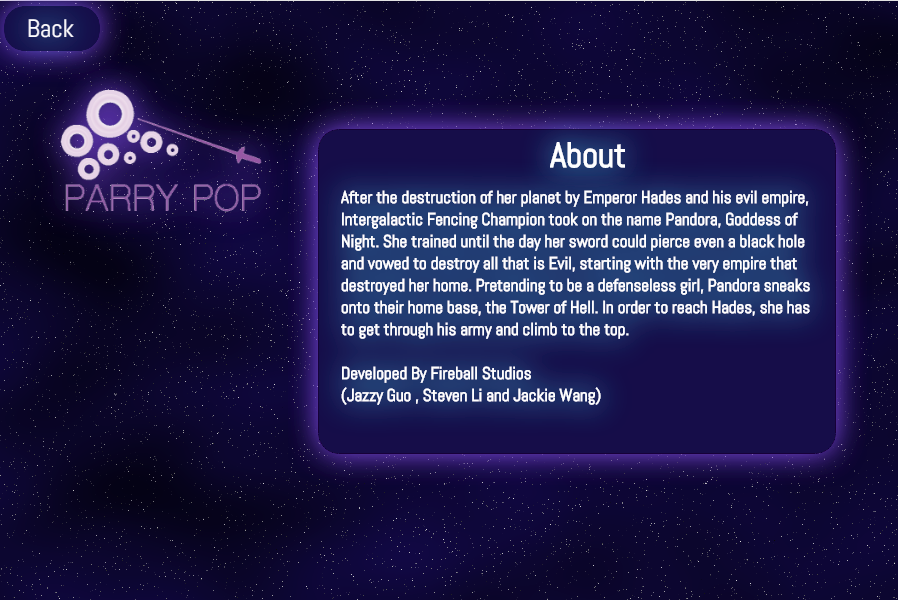
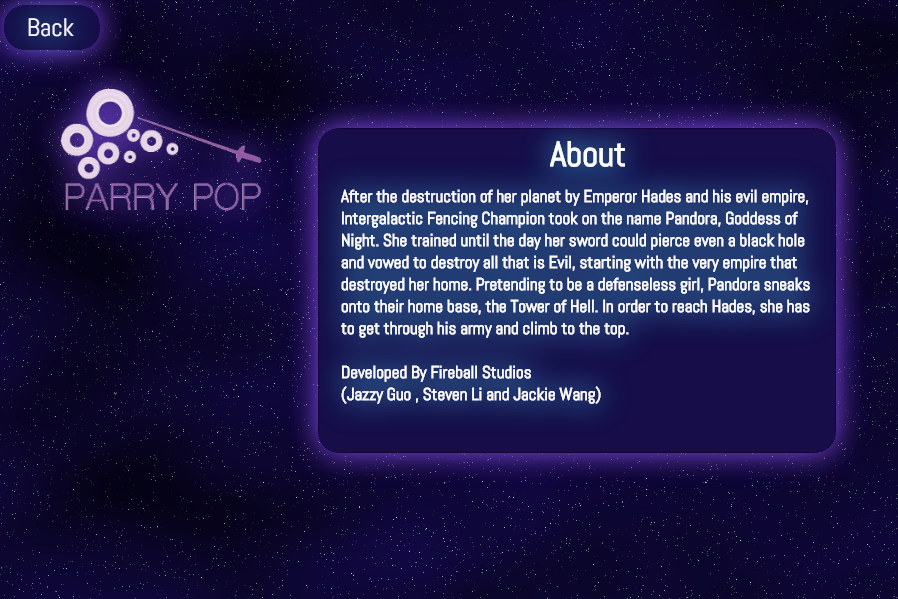
removed image whitespace and added background

diff --git a/js/Game.js b/js/Game.js
@@ -3,19 +3,21 @@ var cursors;
 var bullets;
 var fireRate = 500;
 var nextFire = 0;
-var swingRate = 1000;
+var swingRate = 3000;
 var swung = false;
 var nextSwing = 0;
 var bulletspeed = 300;
 var enemies;
 var spinInt = 0;
 var swordhitbox = new p2.Circle(1.5)
-var playerCollisionGroup; 
-var enemyCollisionGroup; 
+var playerCollisionGroup;
+var enemyCollisionGroup;
 var borderCollisionGroup;
 var swordCollisionGroup;
 var bulletCollisionGroup;
 var hearts;
+var invulnerability = false;
+var shield;
 
 Game = function() {};
 
@@ -51,13 +53,17 @@ Game.prototype = {
         //Add my Robot player
         player = game.add.sprite(game.world.centerX, game.world.centerY, 'player');
 
-        player.animations.add('walk', [0, 1, 2, 3, 4], 10, true);
-        player.animations.add('attack', [5, 6, 7, 8, 9], 10, true);
-        player.animations.add('shoot', [10, 11, 12, 13, 14], 10, true);
+        player.animations.add('idle', [0, 1, 2, 3, 4], 10, true);
+        player.animations.add('walk', [5, 6, 7, 8, 9], 10, false);
+        player.animations.add('attack', [10, 11, 12, 13, 14], 10, false);
+        player.animations.add('attackwalk', [15, 16, 17, 18, 19], 10, false);
+        player.animations.add('shoot', [20,21,22,23,24], 10, false);
+        player.animations.add('shootwalk', [25,26,27,28,29], 10, false);
+
         game.physics.p2.enable(player, true);
         player.body.setCircle(20);
         player.health = 10;
-        player.body.setCollisionGroup(playerCollisionGroup);   
+        player.body.setCollisionGroup(playerCollisionGroup);
         //the camera will follow the player in the world
         game.camera.follow(player);
 
@@ -66,7 +72,7 @@ Game.prototype = {
         game.physics.p2.enable(border);
         border.body.clearShapes();
         border.body.loadPolygon('data', 'Border');
-        border.body.setCollisionGroup(borderCollisionGroup); 
+        border.body.setCollisionGroup(borderCollisionGroup);
         border.body.collides([enemyCollisionGroup, playerCollisionGroup,bulletCollisionGroup]);
 
         player.body.collides(borderCollisionGroup);
@@ -84,7 +90,7 @@ Game.prototype = {
         bullets.setAll('outOfBoundsKill', true);
         bullets.setAll('anchor.x', 0.5);
         bullets.setAll('anchor.y', 0.5);
-        
+
         hearts = game.add.group();
 
         for (var i = 0; i < player.health; i++){
@@ -94,53 +100,81 @@ Game.prototype = {
   },
 
     update: function() {
+        console.log(shield);
         //player movement
         pointerangle = game.physics.arcade.angleToPointer(player) + game.math.degToRad(-90);
         player.body.rotation = pointerangle;
         player.body.setZeroVelocity();
         if (cursors.W.isDown) {
                 player.body.moveUp(300);
-                player.animations.play('walk',false)
+                if(game.input.mousePointer.leftButton.isDown){
+                    player.animations.play('shootwalk',false);
+                }else if(game.input.mousePointer.rightButton.isDown){
+                    player.animations.play('attackwalk',false);
+                }else{
+                    player.animations.play('walk',false);
+                }
         } else if (cursors.S.isDown) {
                 player.body.moveDown(300);
-                player.animations.play('walk',false)
+                if(game.input.mousePointer.leftButton.isDown){
+                    player.animations.play('shootwalk',false);
+                }else if(game.input.mousePointer.rightButton.isDown){
+                    player.animations.play('attackwalk',false);
+                }else{
+                    player.animations.play('walk',false);
+                }
         }
         if (cursors.A.isDown) {
                 player.body.moveLeft(300);
-                player.animations.play('walk',false)
+                if(game.input.mousePointer.leftButton.isDown){
+                    player.animations.play('shootwalk',false);
+                }else if(game.input.mousePointer.rightButton.isDown){
+                    player.animations.play('attackwalk',false);
+                }else{
+                    player.animations.play('walk',false);
+                }
         } else if (cursors.D.isDown) {
                 player.body.moveRight(300);
-                player.animations.play('walk',false)
+                if(game.input.mousePointer.leftButton.isDown){
+                    player.animations.play('shootwalk',false);
+                }else if(game.input.mousePointer.rightButton.isDown){
+                    player.animations.play('attackwalk',false);
+                }else{
+                    player.animations.play('walk',false);
+                }
+
         }
         if (game.input.mousePointer.leftButton.isDown)
          {
                 if (game.time.now > nextFire && bullets.countDead() > 0)
-         {
-        nextFire = game.time.now + fireRate;
-        var point1 = new Phaser.Point(player.body.x, player.body.y);
-        var point2 = new Phaser.Point(player.body.x + 13, player.body.y - 40);
-        point2.rotate(point1.x, point1.y, pointerangle + game.math.degToRad(180), false);
-        var bullet = bullets.getFirstExists(false);
-        if(bullet){
-        game.physics.p2.enable(bullet, true);
-        bullet.body.fixedRotation=true;  
-        bullet.lifespan = 3000;
-        bullet.reset(point2.x, point2.y);
-        bullet.rotation = pointerangle;
-        bullet.body.velocity.x = 500 * Math.cos(pointerangle + game.math.degToRad(-270));  
-        bullet.body.velocity.y = 500 * Math.sin(pointerangle + game.math.degToRad(-270));
-        bullet.body.setCircle(5)
-        bullet.body.setCollisionGroup(bulletCollisionGroup);
-        bullet.body.collides([borderCollisionGroup,swordCollisionGroup])
-        //bullet.body.collides(enemyCollisionGroup, killEnemies, this);
-        //game.physics.arcade.velocityFromRotation(game.physics.arcade.angleToPointer(player), bulletspeed, bullet.body.velocity);
-    }
-         }
+                    {
+                    nextFire = game.time.now + fireRate;
+                    var point1 = new Phaser.Point(player.body.x, player.body.y);
+                    var point2 = new Phaser.Point(player.body.x + 13, player.body.y - 40);
+                    point2.rotate(point1.x, point1.y, pointerangle + game.math.degToRad(180), false);
+                    var bullet = bullets.getFirstExists(false);
+                    if(bullet){
+                        game.physics.p2.enable(bullet, true);
+                        bullet.body.fixedRotation=true;
+                        bullet.lifespan = 3000;
+                        bullet.reset(point2.x, point2.y);
+                        bullet.rotation = pointerangle;
+                        bullet.body.velocity.x = 500 * Math.cos(pointerangle + game.math.degToRad(-270));
+                        bullet.body.velocity.y = 500 * Math.sin(pointerangle + game.math.degToRad(-270));
+                        bullet.body.setCircle(5)
+                        bullet.body.setCollisionGroup(bulletCollisionGroup);
+                        bullet.body.collides([enemyCollisionGroup,borderCollisionGroup,swordCollisionGroup])
+                        player.animations.play('shoot',false);
+                        //bullet.body.collides(enemyCollisionGroup, killEnemies, this);
+                        //game.physics.arcade.velocityFromRotation(game.physics.arcade.angleToPointer(player), bulletspeed, bullet.body.velocity);
+                    }
+                 }
         }
         if(game.input.mousePointer.rightButton.isDown){
               if (game.time.now > nextSwing){
                 nextSwing = game.time.now + swingRate;
                 if(swung == false){
+                shield = 5;
                 player.body.addShape(swordhitbox,0,20);
                 player.body.setCollisionGroup(swordCollisionGroup,swordhitbox)
                 swung = true;
@@ -151,11 +185,12 @@ Game.prototype = {
         else{
             player.animations.play('walk',true)
             if (game.time.now > nextSwing-500){
-            if(swung == true){
-            player.body.removeShape(swordhitbox);
-            swung = false;
+                if(swung == true){
+                    shield = 0;
+                    player.body.removeShape(swordhitbox);
+                    swung = false;
+                }
             }
-    }
         }
         //handle enemies
         handleEnemies();
@@ -182,11 +217,34 @@ function initEnemies(){
         game.physics.p2.enable(slime, true);
         slime.body.setCircle(30);
         slime.body.setCollisionGroup(enemyCollisionGroup);
+        slime.body.collides(swordCollisionGroup, smackEnemies, this);
+        slime.body.collides(playerCollisionGroup, takeDamage, this);
+        slime.body.collides(bulletCollisionGroup, killEnemies, this);
+        slime.body.collides([enemyCollisionGroup,borderCollisionGroup, playerCollisionGroup]);
+        slime.enemyType = 0;
+        //slime.body.static = true;
+    }
+
+
+    for(var i = 0; i < 10; i++){
+        var slime = enemies.create(game.world.centerX + (-500 + Math.random()*1000), game.world.centerY+ (-500 + Math.random()*1000), 'blueSlime');
+        var arr = [];
+        for(var j = 0; j < 22; j++){
+            arr.push(j);
+        }
+        slime.animations.add('blueSlimeIdle', arr, 12, true);
+        slime.currentRadius = slime.width;
+        game.physics.p2.enable(slime, true);
+        slime.body.setCircle(30);
+        slime.body.setCollisionGroup(enemyCollisionGroup);
         slime.body.collides(swordCollisionGroup, killEnemies, this);
         slime.body.collides(playerCollisionGroup, takeDamage, this);
-        slime.body.collides([enemyCollisionGroup,bulletCollisionGroup,borderCollisionGroup, playerCollisionGroup]);
+        slime.body.collides(bulletCollisionGroup, killEnemies, this);
+        slime.body.collides([enemyCollisionGroup,borderCollisionGroup, playerCollisionGroup]);
+        slime.enemyType = 1;
+        //slime.body.static = true;
     }
-    
+
 }
 
 function killEnemies(body1, body2){
@@ -194,6 +252,15 @@ function killEnemies(body1, body2){
         body1.clearShapes();
         body1.sprite.destroy();
     }
+}
+function smackEnemies(body1, body2){
+        if(shield > 0){
+            shield --;
+        }
+        else{
+            player.body.removeShape(swordhitbox);
+            swung = false;
+        }
 }
 
 function handleEnemies(){
@@ -219,16 +286,30 @@ function handleEnemyMovements(){
         else{
             enemy.body.isVulnerable = false;
         }
-        
+        console.log(enemy.enemyType);
+        if(enemy.enemyType == 0){
+            
+        }
+        else if(enemy.enemyType == 1){
+            game.physics.arcade.moveToXY(enemy, player.body.x, player.body.y, 200);
+        }
+
     }, this);
 }
 
 function takeDamage () {
     // decrement health, handle heart graphic in update
     if(player.health > 0){
+        if(invulnerability == false){
         console.log(player.health);
         console.log();
         hearts.children[player.health - 1].kill();
         player.health--;
+        invulnerability = true;
+        game.time.events.add(500, removeInvulnerability, this);
+        }
     }
+
+function removeInvulnerability(){
+    invulnerability = false;}
 }

diff --git a/js/Preload.js b/js/Preload.js
@@ -5,7 +5,7 @@ Preload.prototype = {
     preload: function() {
         this.splash = this.add.sprite(0, 0, 'splash');
         this.splash.width = 1200;
-        this.splash.height = 700;
+        this.splash.height = 900;
 
         this.load.image('about', 'assets/about.png');
         this.load.image('levels', 'assets/levels.png');

diff --git a/style.css b/style.css
@@ -1,11 +1,16 @@
 body {
-    background: #000000;
-      width:100%
+    background-image: url("assets/space.png");
+    background-repeat: no-repeat;
+    width: 100%
 }
+
+
 /*center canvas*/
+
 canvas {
     margin: auto;
 }
+
 #container {
     top: 5%;
     left: 100px;

diff --git a/Benchmark2.html b/Benchmark2.html
@@ -23,7 +23,7 @@
 
 <body>
 	<script>
-		game = new Phaser.Game(1200, 700, Phaser.AUTO, '');
+		game = new Phaser.Game(1200, 800, Phaser.AUTO, '');
 
 		game.state.add('Boot', Boot);
 		game.state.add('Preload', Preload);
